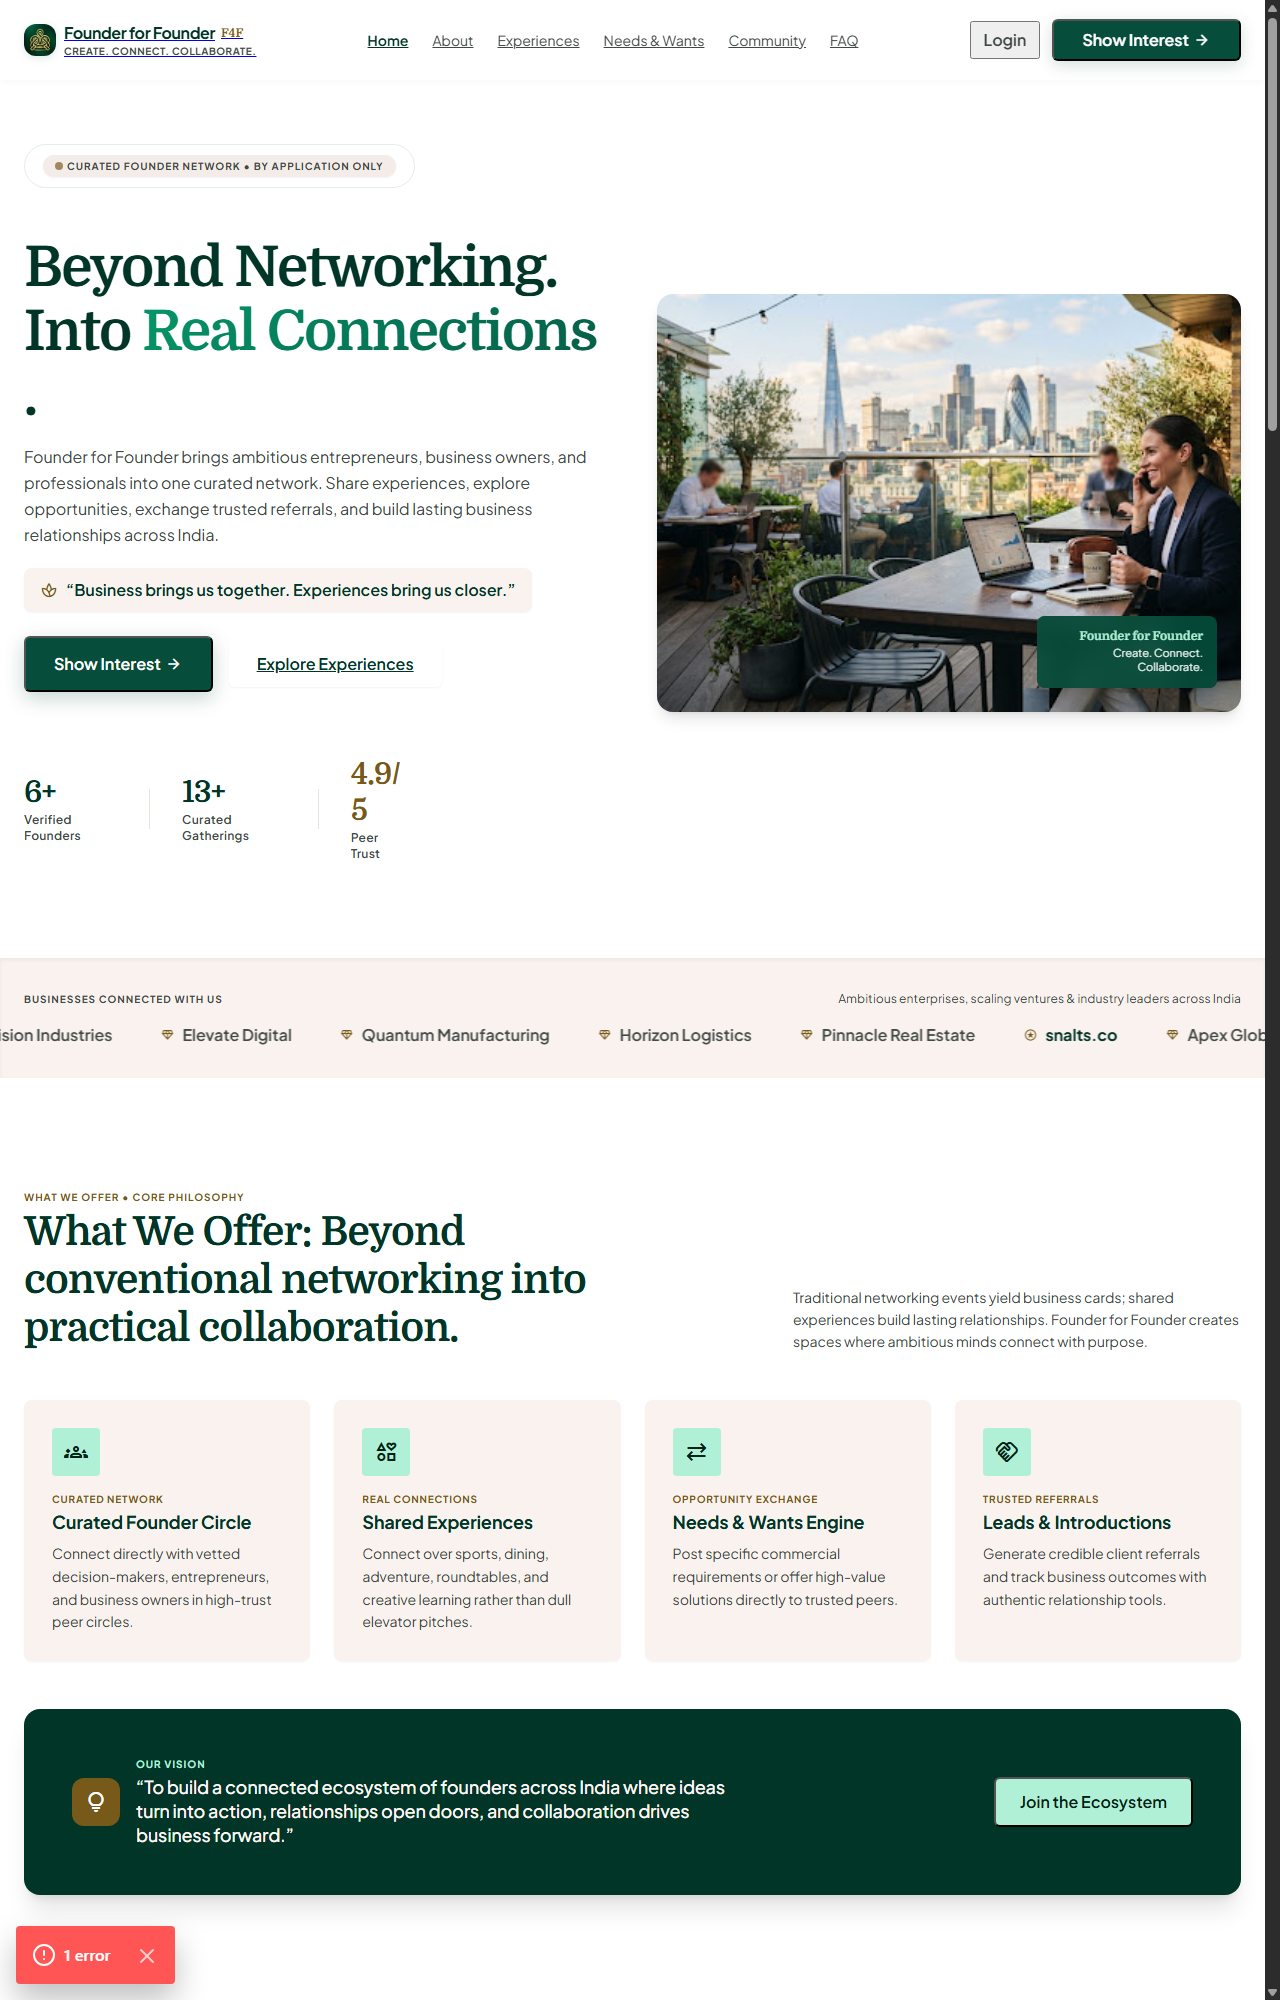
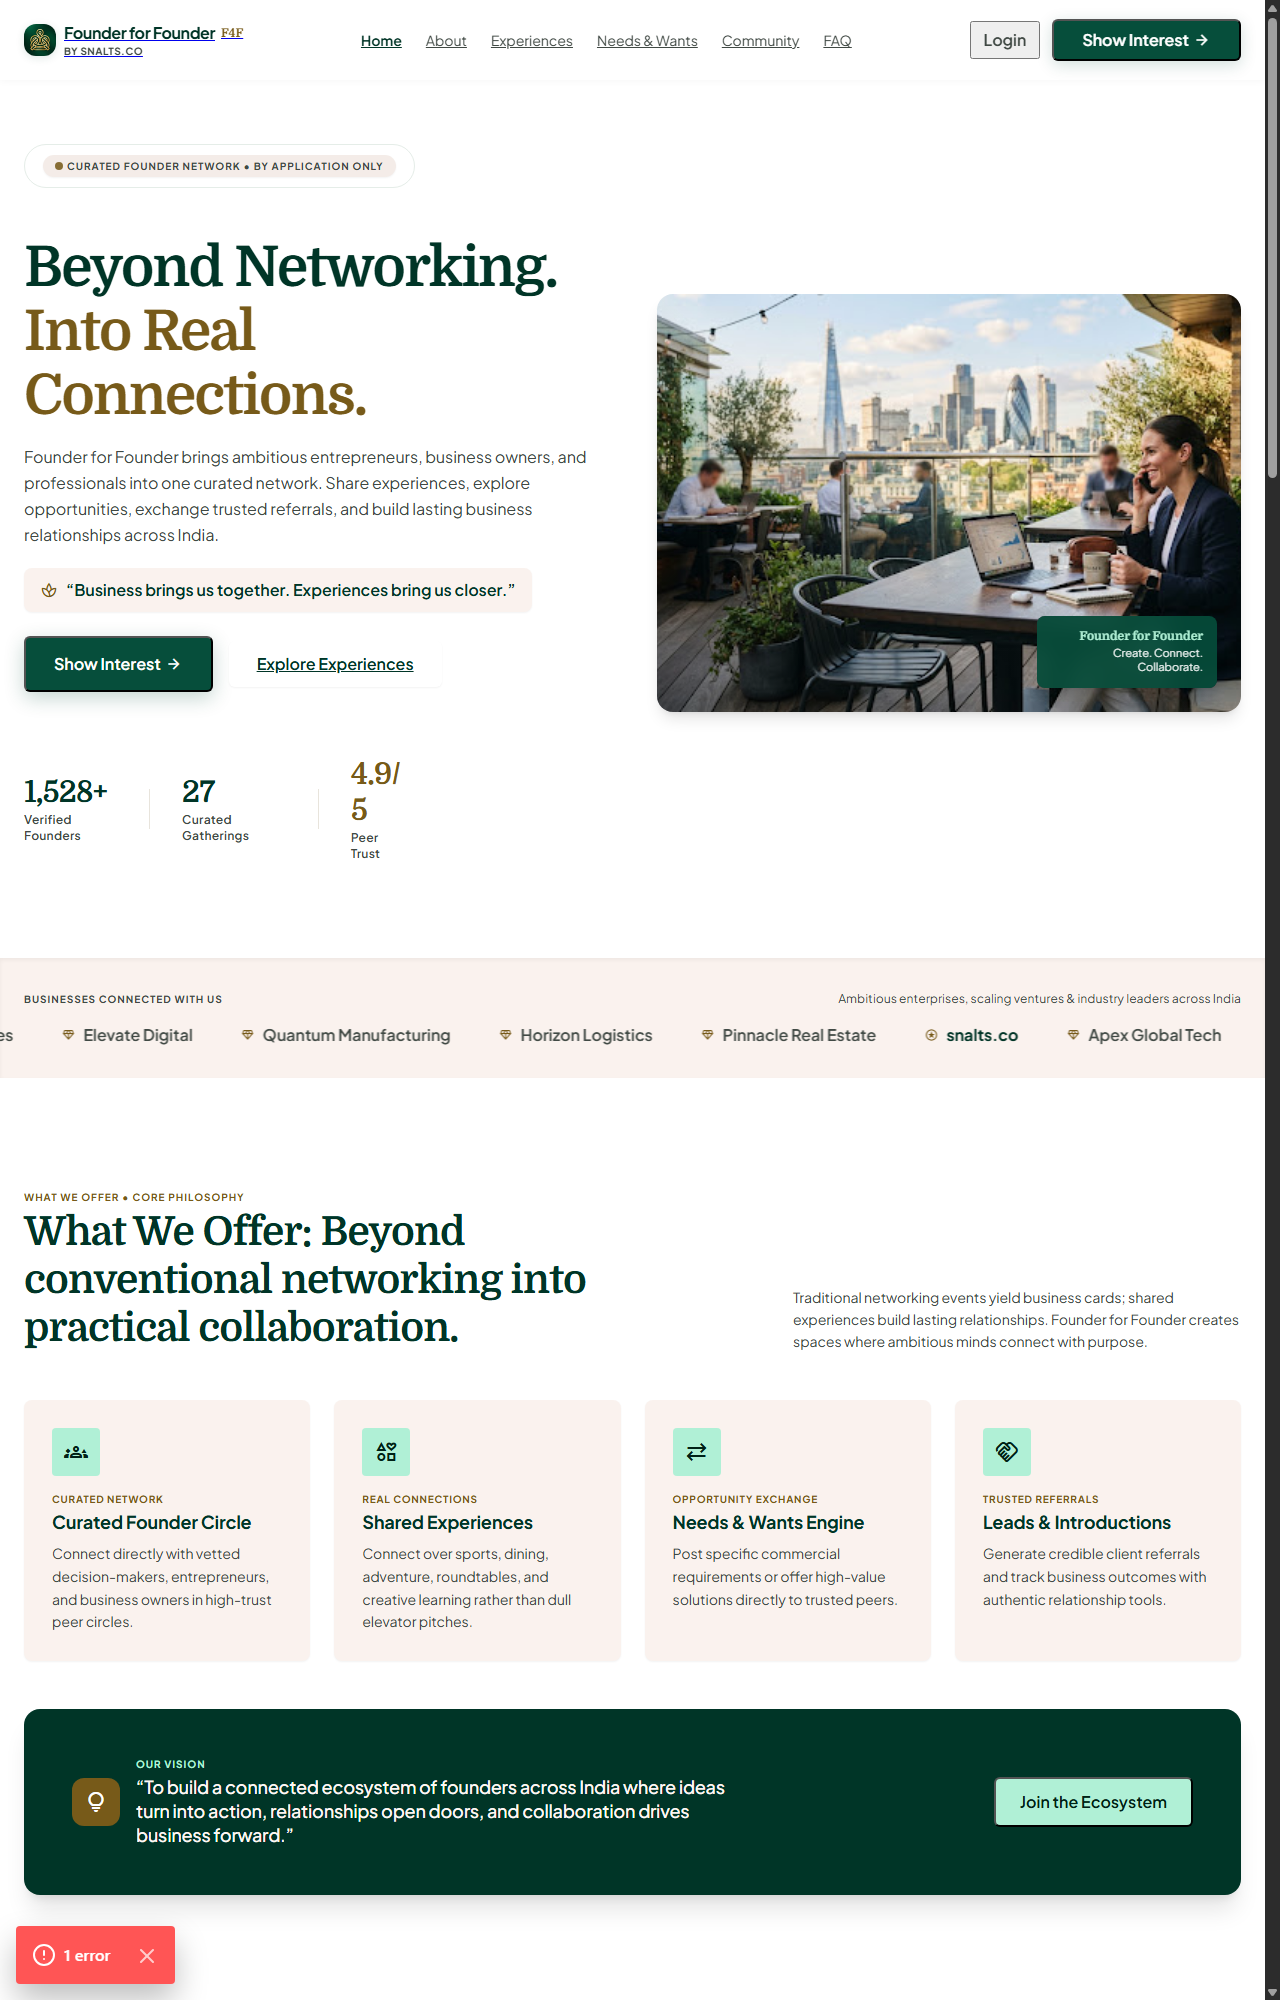
style: refine mobile hero responsiveness and headline typography scaling
- Add responsive media query rules in public/css/styles.css and src/app/globals.css for .text-headline-hero, .text-headline-lg, and .text-headline-md on small viewports
- Wrap hero pill badge in .hero-pill-badge container with overflow truncation guard to eliminate horizontal scroll on mobile devices
- Update hero action buttons layout to stack vertically on mobile (flex-col sm:flex-row)
- Add utility scripts to inspect, refine, and verify mobile hero badge and typography styling
- Update desktop and mobile visual verification screenshots

diff --git a/public/index.html b/public/index.html
@@ -225,10 +225,10 @@
               
               <!-- Left Column Content -->
               <div class="lg:col-span-6 flex flex-col items-center lg:items-start text-center lg:text-left gap-space-md">
-                <div class="hero-pill-badge">
-                <div class="inline-flex items-center gap-space-xs px-3 py-1 rounded-full bg-surface-container text-on-surface-variant font-label-status text-label-status tracking-widest uppercase w-fit shadow-sm">
-                  <span class="w-2 h-2 rounded-full bg-secondary inline-block animate-pulse"></span>
-                  <span id="heroBadge">CURATED FOUNDER NETWORK • BY APPLICATION ONLY</span>
+                <div <div class="hero-pill-badge">
+                <div class="inline-flex items-center gap-1.5 px-3 py-1 rounded-full bg-surface-container-high text-primary-container font-label-status text-xs uppercase font-bold tracking-wider max-w-full">
+                  <span class="w-2 h-2 rounded-full bg-secondary inline-block animate-pulse shrink-0"></span>
+                  <span id="heroBadge" class="truncate">CURATED FOUNDER NETWORK &bull; BY APPLICATION ONLY</span>
                 </div>
               </div>
 
@@ -1308,7 +1308,7 @@
               <span class="material-symbols-outlined text-[26px]">task_alt</span>
             </div>
             <div class="flex flex-col gap-1">
-              <div class="flex items-center gap-space-sm flex-wrap">
+              <div class="flex flex-col sm:flex-row items-stretch sm:items-center gap-space-sm max-w-md">
                 <span class="font-label-caps text-label-caps text-primary font-bold uppercase">Monthly Presence &amp; Accountability</span>
                 <span class="px-2 py-0.5 rounded-full text-label-caps font-label-caps bg-primary-fixed text-primary-container uppercase font-bold">Verified Streak</span>
               </div>

diff --git a/public/css/styles.css b/public/css/styles.css
@@ -3142,3 +3142,22 @@ img {
 #experiences-track::-webkit-scrollbar {
   display: none;
 }
+
+/* Executive Guild Responsive Headline Scaling */
+@media (max-width: 640px) {
+  .text-headline-hero {
+    font-size: 2.15rem !important;
+    line-height: 1.18 !important;
+    word-break: break-word;
+  }
+  .text-headline-lg {
+    font-size: 1.65rem !important;
+    line-height: 1.25 !important;
+    word-break: break-word;
+  }
+  .text-headline-md {
+    font-size: 1.35rem !important;
+    line-height: 1.3 !important;
+    word-break: break-word;
+  }
+}

diff --git a/src/app/globals.css b/src/app/globals.css
@@ -3142,3 +3142,22 @@ img {
 #experiences-track::-webkit-scrollbar {
   display: none;
 }
+
+/* Executive Guild Responsive Headline Scaling */
+@media (max-width: 640px) {
+  .text-headline-hero {
+    font-size: 2.15rem !important;
+    line-height: 1.18 !important;
+    word-break: break-word;
+  }
+  .text-headline-lg {
+    font-size: 1.65rem !important;
+    line-height: 1.25 !important;
+    word-break: break-word;
+  }
+  .text-headline-md {
+    font-size: 1.35rem !important;
+    line-height: 1.3 !important;
+    word-break: break-word;
+  }
+}

diff --git a/scripts/refine_mobile_hero.py b/scripts/refine_mobile_hero.py
@@ -1,0 +1,36 @@
+with open('public/index.html', 'r', encoding='utf-8') as f:
+    text = f.read()
+
+# Refine hero pill badge
+target_pill = '''<div class="hero-pill-badge">
+                 <div class="inline-flex items-center gap-space-xs px-3 py-1 rounded-full bg-surface-container text-on-surface-variant font-label-status text-label-status tracking-widest uppercase w-fit shadow-sm">
+                  <span class="w-2 h-2 rounded-full bg-secondary inline-block animate-pulse"></span>
+                  <span id="heroBadge">CURATED FOUNDER NETWORK • BY APPLICATION ONLY</span>
+                </div>
+              </div>'''
+
+# Or find hero-pill-badge block flexibly
+pos = text.find('class="hero-pill-badge"')
+if pos != -1:
+    end_pos = text.find('</div>\n              </div>', pos)
+    if end_pos != -1:
+        new_pill = '''<div class="hero-pill-badge">
+                <div class="inline-flex items-center gap-1.5 px-3 py-1 rounded-full bg-surface-container-high text-primary-container font-label-status text-xs uppercase font-bold tracking-wider max-w-full">
+                  <span class="w-2 h-2 rounded-full bg-secondary inline-block animate-pulse shrink-0"></span>
+                  <span id="heroBadge" class="truncate">CURATED FOUNDER NETWORK &bull; BY APPLICATION ONLY</span>
+                </div>
+              </div>'''
+        text = text[:pos] + new_pill + text[end_pos + len('</div>\n              </div>'):]
+        print("Updated hero pill badge successfully!")
+
+# Refine CTA buttons container
+cta_old = '<div class="flex items-center gap-space-sm flex-wrap">'
+cta_new = '<div class="flex flex-col sm:flex-row items-stretch sm:items-center gap-space-sm max-w-md">'
+if cta_old in text:
+    text = text.replace(cta_old, cta_new, 1)
+    print("Updated hero CTA buttons to flex-col sm:flex-row!")
+
+with open('public/index.html', 'w', encoding='utf-8') as f:
+    f.write(text)
+
+print("public/index.html refined successfully.")

diff --git a/scripts/add_responsive_typography.py b/scripts/add_responsive_typography.py
@@ -1,0 +1,31 @@
+css_rule = '''
+/* Executive Guild Responsive Headline Scaling */
+@media (max-width: 640px) {
+  .text-headline-hero {
+    font-size: 2.15rem !important;
+    line-height: 1.18 !important;
+    word-break: break-word;
+  }
+  .text-headline-lg {
+    font-size: 1.65rem !important;
+    line-height: 1.25 !important;
+    word-break: break-word;
+  }
+  .text-headline-md {
+    font-size: 1.35rem !important;
+    line-height: 1.3 !important;
+    word-break: break-word;
+  }
+}
+'''
+
+for path in ['public/css/styles.css', 'src/app/globals.css']:
+    with open(path, 'r', encoding='utf-8') as f:
+        content = f.read()
+    if 'Executive Guild Responsive Headline Scaling' not in content:
+        content = content.rstrip() + '\n' + css_rule
+        with open(path, 'w', encoding='utf-8') as f:
+            f.write(content)
+        print(f"Appended responsive headline scaling to {path}")
+    else:
+        print(f"Already present in {path}")

diff --git a/scripts/inspect_mobile_badge.py b/scripts/inspect_mobile_badge.py
@@ -1,0 +1,15 @@
+with open(r'stitch_imported_screens_v2\html\09_Founder_for_Founder___Home__Mobile_21aec84f.html', 'r', encoding='utf-8') as f:
+    text = f.read()
+
+import re
+pos = text.find('CURATED')
+if pos == -1:
+    pos = text.find('Curated')
+if pos != -1:
+    print("Found around pos:", pos)
+    print(text[pos-100:pos+200])
+else:
+    # search first 5 spans in main
+    spans = re.findall(r'<span[^>]*>(.*?)</span>', text, re.DOTALL)
+    for s in spans[:10]:
+        print("Span:", re.sub(r'<[^>]+>', '', s).strip())

diff --git a/scripts/print_mobile_hero.py b/scripts/print_mobile_hero.py
@@ -1,0 +1,10 @@
+with open(r'stitch_imported_screens_v2\html\09_Founder_for_Founder___Home__Mobile_21aec84f.html', 'r', encoding='utf-8') as f:
+    text = f.read()
+
+import re
+m = re.search(r'<main[^>]*>(.*?)</main>', text, re.DOTALL)
+if m:
+    lines = m.group(1).split('\n')
+    print("Top of main in mobile Stitch:")
+    for l in lines[:40]:
+        print(l[:120])

diff --git a/scripts/print_tailwind_typography.py b/scripts/print_tailwind_typography.py
@@ -1,0 +1,6 @@
+with open('public/index.html', 'r', encoding='utf-8') as f:
+    text = f.read()
+
+pos = text.find('surface-container-highest')
+if pos != -1:
+    print(text[pos:pos+1500])
